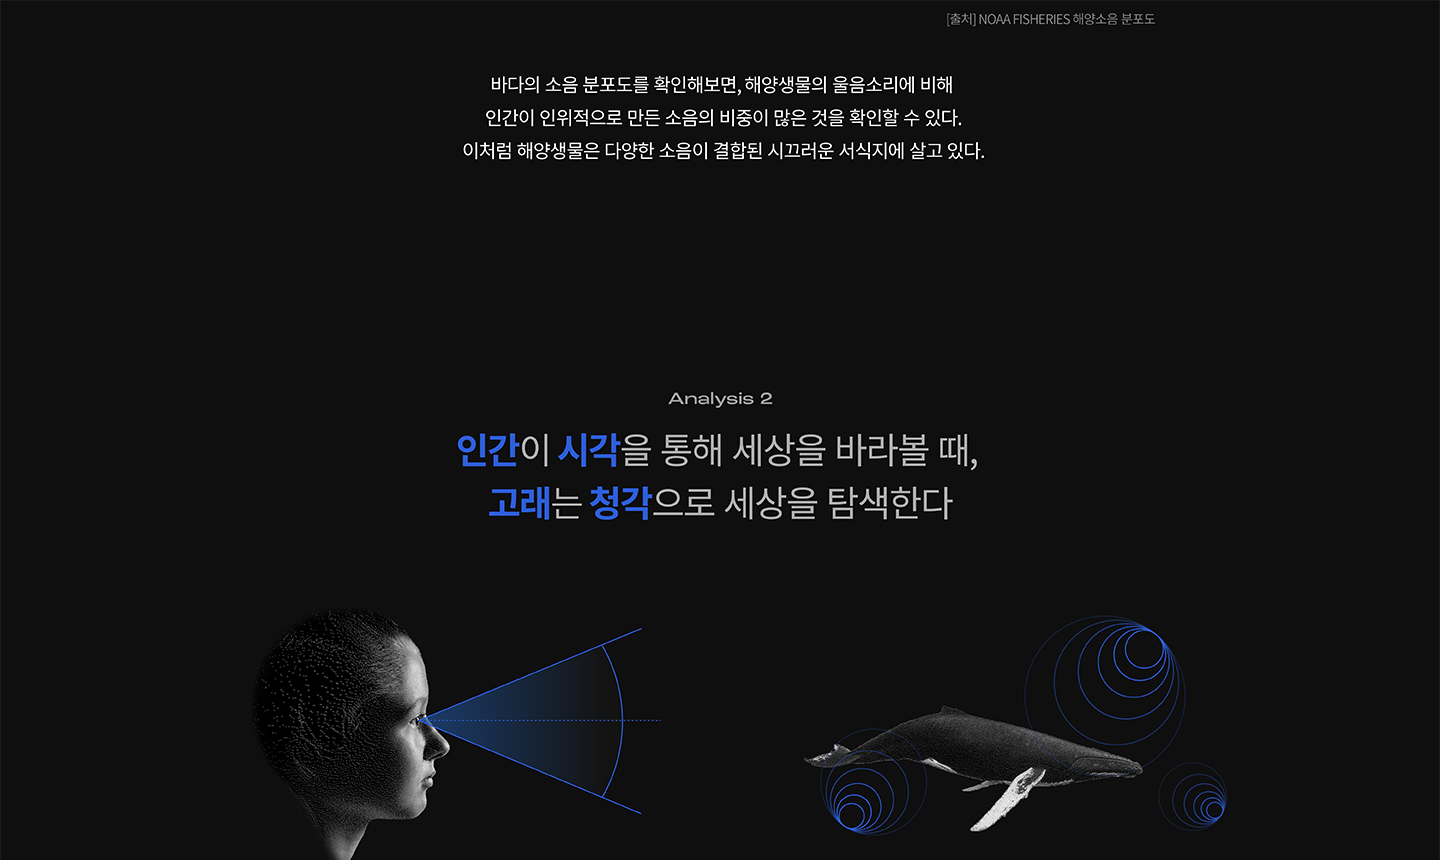
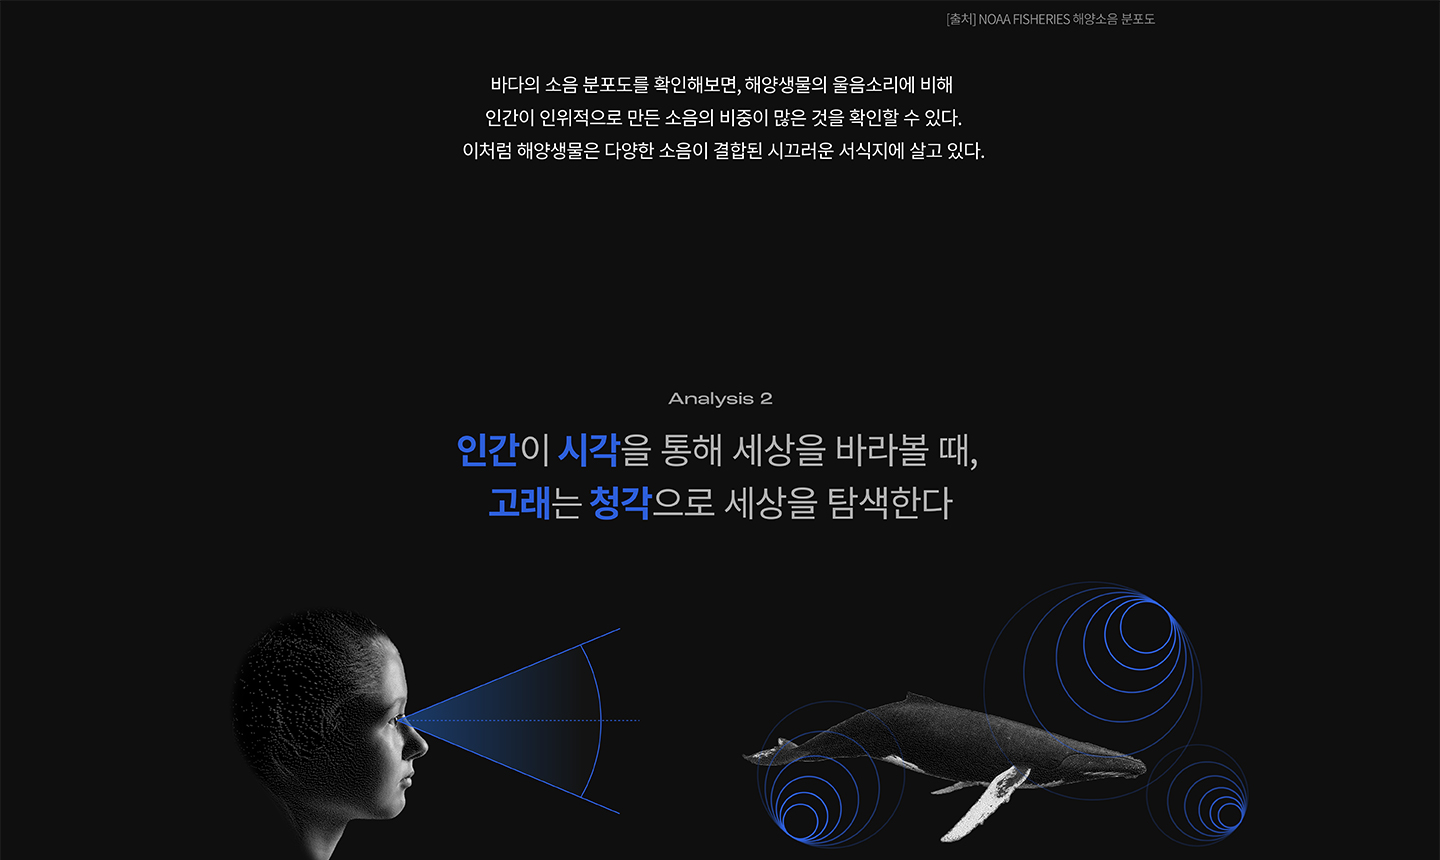
로띠 테스트

diff --git a/src/subject1/subject1.html b/src/subject1/subject1.html
@@ -36,7 +36,7 @@
             <img src="./assets/1.jpg" alt="" />
             <iframe
               src="https://player.vimeo.com/video/869524025?h=feacc78020&autoplay=1&loop=1&title=0&byline=0&portrait=0&muted=1&controls=0&autoplay=0&autopause=0&background=1&quality=720p"
-              style="aspect-ratio: 1440 / 729; width: 100%"
+              style="aspect-ratio: 1440 / 730; width: 100%"
               frameborder="0"
               allow="autoplay; fullscreen; picture-in-picture"
               allowfullscreen></iframe>
@@ -56,34 +56,34 @@
             <img src="./assets/9.jpg" alt="" />
             <iframe
               src="https://player.vimeo.com/video/869594938?badge=0&autoplay=1&loop=1&title=0&byline=0&portrait=0&muted=1&controls=0&autoplay=0&autopause=0&background=1&quality=720p"
-              style="aspect-ratio: 1440 / 130.5; width: 100%"
+              style="aspect-ratio: 1440 / 130; width: 100%"
               frameborder="0"
               allow="autoplay; fullscreen; picture-in-picture"
               allowfullscreen></iframe>
             <img src="./assets/10.jpg" alt="" />
             <iframe
-              src="https://player.vimeo.com/video/869589152?h=ca9ccb2730&autoplay=1&loop=1&title=0&byline=0&portrait=0&muted=1&controls=0&autoplay=0&autopause=0&background=1&quality=720p"
+              src="https://player.vimeo.com/video/870426442?h=1603f017e7&autoplay=1&loop=1&title=0&byline=0&portrait=0&muted=1&controls=0&autoplay=0&autopause=0&background=1&quality=720p"
               style="aspect-ratio: 1440 / 810; width: 100%"
               frameborder="0"
               allow="autoplay; fullscreen; picture-in-picture"
               allowfullscreen></iframe>
             <img src="./assets/10.jpg" alt="" />
             <iframe
-              src="https://player.vimeo.com/video/869590469?h=a1ee7d1fc3&autoplay=1&loop=1&title=0&byline=0&portrait=0&muted=1&controls=0&autoplay=0&autopause=0&background=1&quality=720p"
+              src="https://player.vimeo.com/video/870426591?h=6dbf3f7f25&autoplay=1&loop=1&title=0&byline=0&portrait=0&muted=1&controls=0&autoplay=0&autopause=0&background=1&quality=720p"
               style="aspect-ratio: 1440 / 810; width: 100%"
               frameborder="0"
               allow="autoplay; fullscreen; picture-in-picture"
               allowfullscreen></iframe>
             <img src="./assets/10.jpg" alt="" />
             <iframe
-              src="https://player.vimeo.com/video/869590639?h=db9bc30a82&autoplay=1&loop=1&title=0&byline=0&portrait=0&muted=1&controls=0&autoplay=0&autopause=0&background=1&quality=720p"
+              src="https://player.vimeo.com/video/870426769?h=9cda937155&autoplay=1&loop=1&title=0&byline=0&portrait=0&muted=1&controls=0&autoplay=0&autopause=0&background=1&quality=720p"
               style="aspect-ratio: 1440 / 810; width: 100%"
               frameborder="0"
               allow="autoplay; fullscreen; picture-in-picture"
               allowfullscreen></iframe>
             <img src="./assets/10.jpg" alt="" />
             <iframe
-              src="https://player.vimeo.com/video/869590756?h=13700be878&autoplay=1&loop=1&title=0&byline=0&portrait=0&muted=1&controls=0&autoplay=0&autopause=0&background=1&quality=720p"
+              src="https://player.vimeo.com/video/870427685?h=d90b5d3eae&autoplay=1&loop=1&title=0&byline=0&portrait=0&muted=1&controls=0&autoplay=0&autopause=0&background=1&quality=720p"
               style="aspect-ratio: 1440 / 810; width: 100%"
               frameborder="0"
               allow="autoplay; fullscreen; picture-in-picture"

diff --git a/src/subject3/subject3.html b/src/subject3/subject3.html
@@ -27,6 +27,32 @@
             <!-- 절대 1개 파일의 용량이 100MB를 넘지 않도록 하시오. 이를 어겨 발생하는 모든 문제는 학생이 알아서 해결하시오. -->
             <!-- 1개 파일의 용량을 1MB 이하로 하시오. -->
             <!-- 비메오 영상 포맷 가이드라인 링크: https://help.vimeo.com/hc/en-us/articles/12426043233169-Video-and-audio-compression-guidelines -->
+            <img src="./assets/1.jpg" alt="" />
+            <img src="./assets/2.jpg" alt="" />
+            <img src="./assets/3.jpg" alt="" />
+            <img src="./assets/4.jpg" alt="" />
+            <img src="./assets/5.jpg" alt="" />
+            <img src="./assets/6.jpg" alt="" />
+            <img src="./assets/7.jpg" alt="" />
+            <img src="./assets/8.jpg" alt="" />
+            <img src="./assets/9.jpg" alt="" />
+            <img src="./assets/10.jpg" alt="" />
+            <img src="./assets/11.jpg" alt="" />
+            <img src="./assets/12.jpg" alt="" />
+            <img src="./assets/13.jpg" alt="" />
+            <img src="./assets/14.jpg" alt="" />
+            <img src="./assets/15.jpg" alt="" />
+            <img src="./assets/16.jpg" alt="" />
+            <img src="./assets/17.jpg" alt="" />
+            <img src="./assets/18.jpg" alt="" />
+            <img src="./assets/19.jpg" alt="" />
+            <img src="./assets/20.jpg" alt="" />
+            <img src="./assets/21.jpg" alt="" />
+            <img src="./assets/22.jpg" alt="" />
+            <img src="./assets/23.jpg" alt="" />
+            <img src="./assets/24.jpg" alt="" />
+            <img src="./assets/25.jpg" alt="" />
+            <img src="./assets/26.jpg" alt="" />
 
             <!-- 비메오 영상 포맷 가이드라인 링크: https://help.vimeo.com/hc/en-us/articles/12426043233169-Video-and-audio-compression-guidelines -->
             <!-- 1개 파일의 용량을 1MB 이하로 하시오. -->

diff --git a/src/subject2/subject2.html b/src/subject2/subject2.html
@@ -54,12 +54,18 @@
             <img src="./assets/19.jpg" alt="" />
             <img src="./assets/20.jpg" alt="" />
             <img src="./assets/21.jpg" alt="" />
-            <iframe
-              src="https://player.vimeo.com/video/870250784?h=6f2383f3bc&autoplay=1&loop=1&title=0&byline=0&portrait=0&muted=1&controls=0&autoplay=0&autopause=0&background=1&quality=720p"
+
+            <script
+              src="https://unpkg.com/@dotlottie/player-component@latest/dist/dotlottie-player.mjs"
+              type="module"></script>
+
+            <dotlottie-player
+              src="https://lottie.host/3708449e-b189-46d2-8e04-955b0a27472d/OSebiKp8UA.json"
+              background="transparent"
+              speed="1"
               style="aspect-ratio: 1440 / 100; width: 100%"
-              frameborder="0"
-              allow="autoplay; fullscreen"
-              allowfullscreen></iframe>
+              loop
+              autoplay></dotlottie-player>
             <img src="./assets/22.jpg" alt="" />
             <img src="./assets/23.jpg" alt="" />
             <img src="./assets/24.jpg" alt="" />

diff --git a/src/subject2/script/reference.js b/src/subject2/script/reference.js
@@ -1,30 +1,9 @@
 const reference = [
   {
-    author: "lena polishko",
+    author: "",
     title: "",
     year: "",
     sourceTitle: "",
-    link: "https://unsplash.com/@ilon_a",
-  },
-  {
-    author: "ash thorp",
-    title: "M O D U L A R - YouTube",
-    year: "2021",
-    sourceTitle: "",
-    link: "https://vimeo.com/486511696",
-  },
-  {
-    author: "ash thorp",
-    title: "FITC Tokyo 2015 Titles",
-    year: "2015",
-    sourceTitle: "",
-    link: "https://vimeo.com/118919656",
-  },
-  {
-    author: "GitHub, Inc.",
-    title: "What is GitHub?",
-    year: "2022",
-    sourceTitle: "",
-    link: "https://www.youtube.com/watch?v=pBy1zgt0XPc",
+    link: "",
   },
 ];
